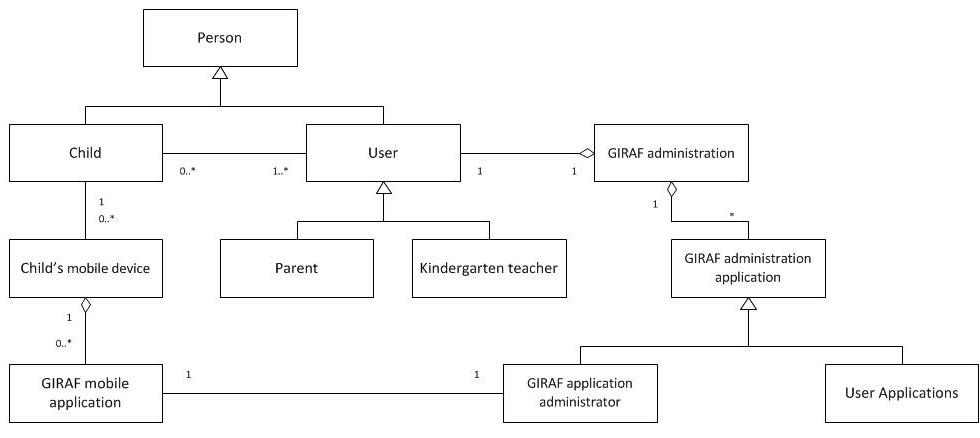
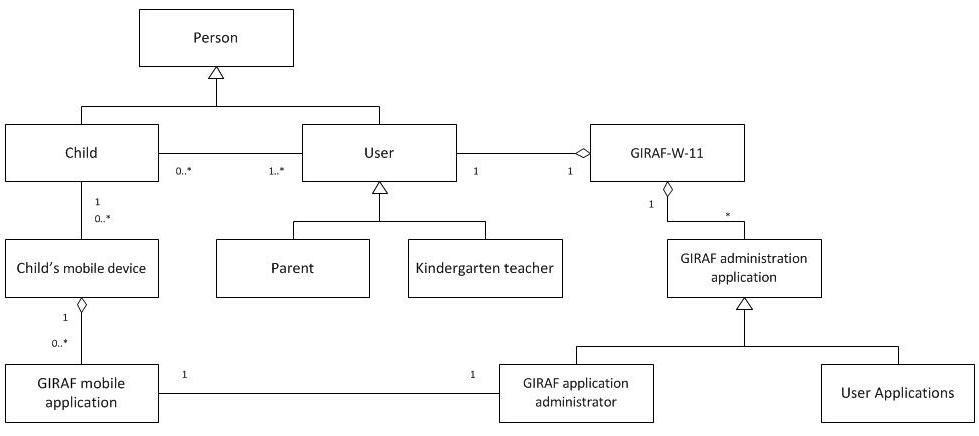
rettelse

diff --git a/tex/design/chapter_visualproduct.tex b/tex/design/chapter_visualproduct.tex
@@ -1,3 +1,3 @@
 \chapter{Modeling the product}
 After analyzing the problem and the solution provided by previous \emph{GIRAF} groups, we can begin design of the product.
-This modeling chapter consists of class diagrams, prototype images, design process description and a list of the product's functions.
+This modeling chapter consists of a class diagrams of the GIRAF-W-11 framework, that would have to be designed and implemented before a fully functional contact book could be implemented. Furthermore, a function list of what the GIRAF-W-11 initially should be able to do.
